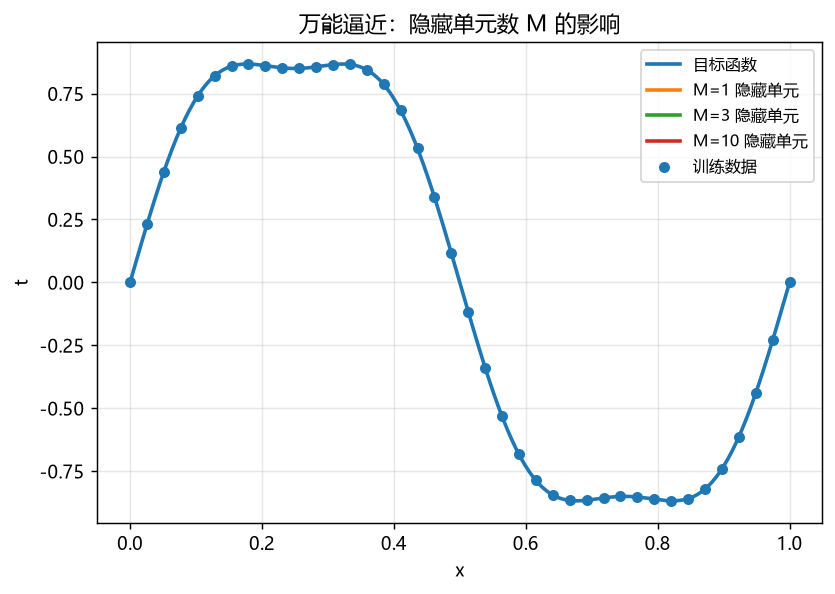
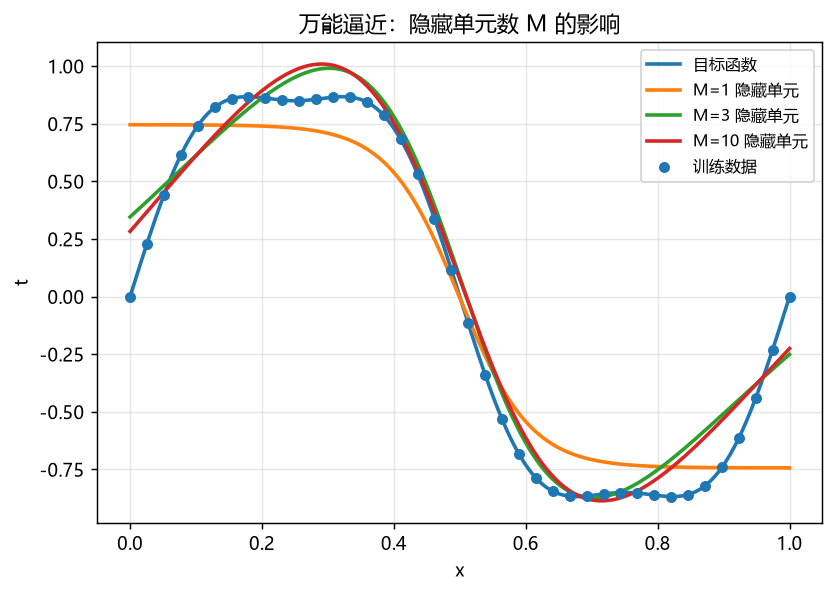
ch06: 修复 MLP 训练发散（小权重初始化+低学习率）

diff --git a/chapters/ch06_deep_neural_networks/ch06_deep_neural_networks.py b/chapters/ch06_deep_neural_networks/ch06_deep_neural_networks.py
@@ -118,7 +118,7 @@ def main() -> None:
         z = h(W1 @ x + b1)                      # (M,1)@(1,) = (M,)
         return W2 @ z + b2                      # (1,M)@(M,) = (1,)
 
-    def train_mlp(M, iters=3000, lr=0.05, seed=0):
+    def train_mlp(M, iters=5000, lr=0.01, seed=0):
         """用批量梯度下降训练单隐层网络（手动反向传播）。
 
         反向传播公式（链式法则）：
@@ -128,7 +128,9 @@ def main() -> None:
         每一步都做一次前向 + 一次反向，然后更新权重。
         """
         r = np.random.default_rng(seed)
-        W1 = r.normal(0, 1.0, (M, 1))
+        # 小权重初始化（He 风格）：tanh 输入过大会饱和（梯度消失），
+        # 用 std=0.5 让激活保持在有效区间
+        W1 = r.normal(0, 0.5, (M, 1))
         b1 = np.zeros(M)
         W2 = r.normal(0, 0.5, (1, M))
         b2 = np.zeros(1)
